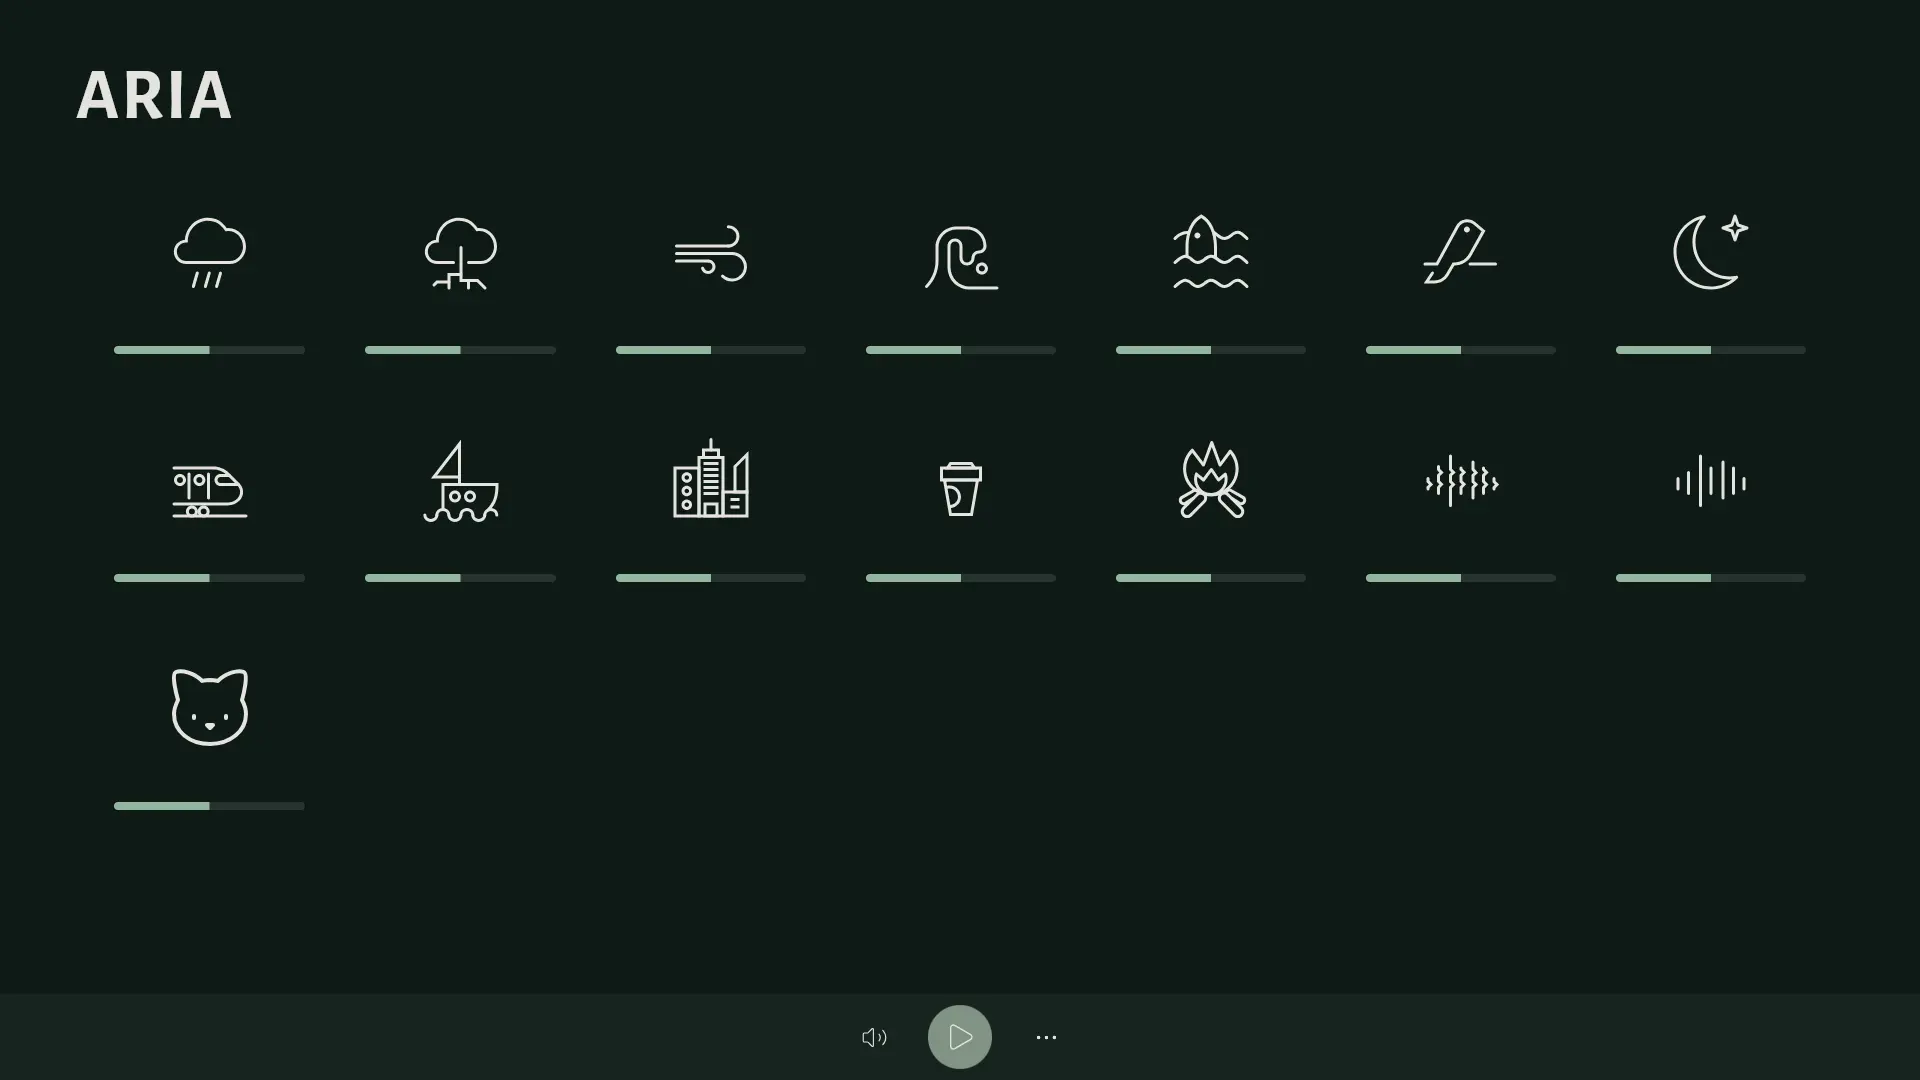
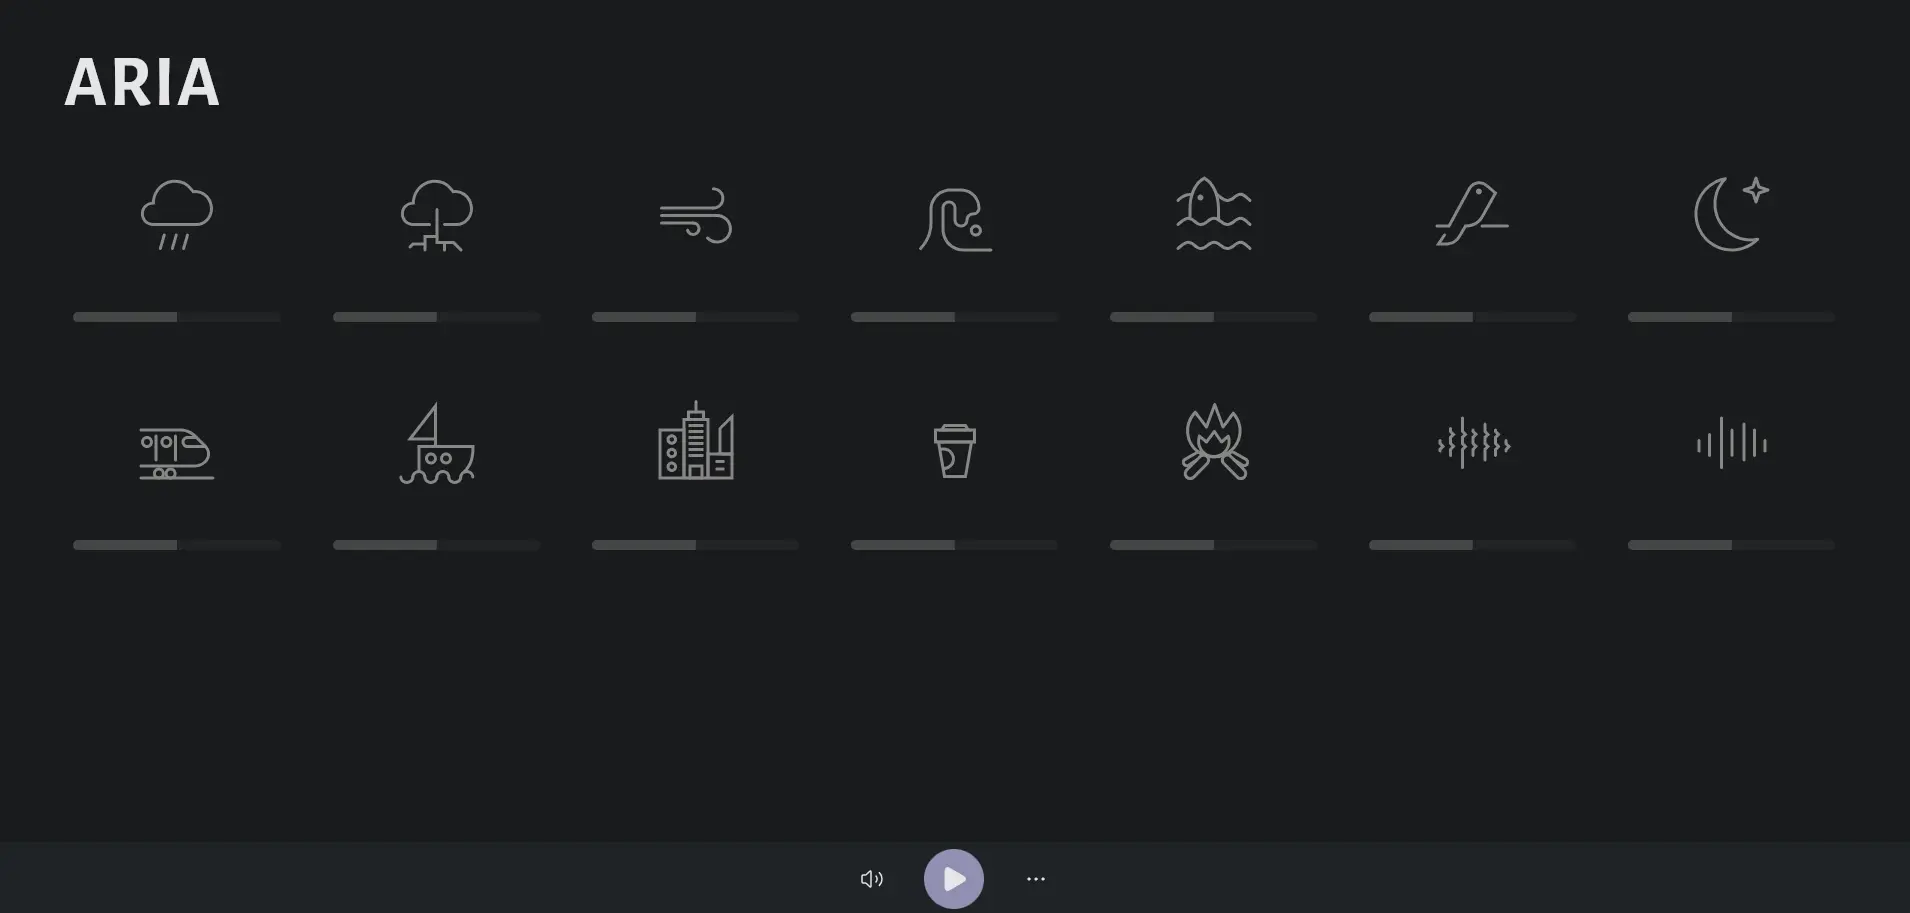
Updated README and screenshots

diff --git a/README.md b/README.md
@@ -5,7 +5,7 @@ Nature’s silent symphony.
 
 **Aria** is an ambient sound app.
 
-Built from scratch using [Compose Multiplatform](https://github.com/JetBrains/compose-multiplatform), **Aria** is designed to flow across platforms — from Linux to Windows, from macOS to Web — while honoring the quiet beauty of the original [Blanket app](https://github.com/rafaelmardojai/blanket), built by Rafael Mardojai for the GNOME desktop.
+Built from scratch using [Compose Multiplatform](https://github.com/JetBrains/compose-multiplatform), **Aria** is designed to flow across platforms. From Linux to Windows, from macOS to Web, while honoring the quiet beauty of the original [Blanket app](https://github.com/rafaelmardojai/blanket), built by Rafael Mardojai for the GNOME desktop.
 
 ---
 
@@ -35,7 +35,11 @@ Web version
 
 Desktop version
 
+<p align = center >
+
 ![Nightly screenshot, dark mode](repo_images/screenshot2.webp)
+
+</p>
 
 ---
 
@@ -58,6 +62,8 @@ cd aria
 ## Known limitations
 #### 1. The Desktop version only supports WAV audio format.
 I did try my best, but I couldn't find an audio library that supported OGG format AND be fast as hell (or well, fast enough to not freeze the UI. I'm still a totally beginner in coroutines and async programming, so it was very hard for me to find a solution).
+#### 2. The Desktop version have a delay on changing the volume
+It happen both on individual sounds and the master volume. I can't figure out why... is it a limitation of javax.sample?
 
 
 ---
@@ -65,7 +71,7 @@ I did try my best, but I couldn't find an audio library that supported OGG forma
 ## 🔧 Stack & Resources
 ### Stack
 - **Compose Multiplatform (Desktop + WASM/JS)** — UI framework
-- **Audio library** — The audio library for Desktop Target (JVM) is Javax.Sample, while on web target uses the browser API. 
+- **Audio library** — The audio library for Desktop Target (JVM) is javax.sample, while on web target uses the browser API. 
 - **GitHub Pages** — For deployment
 
 ### Resources
